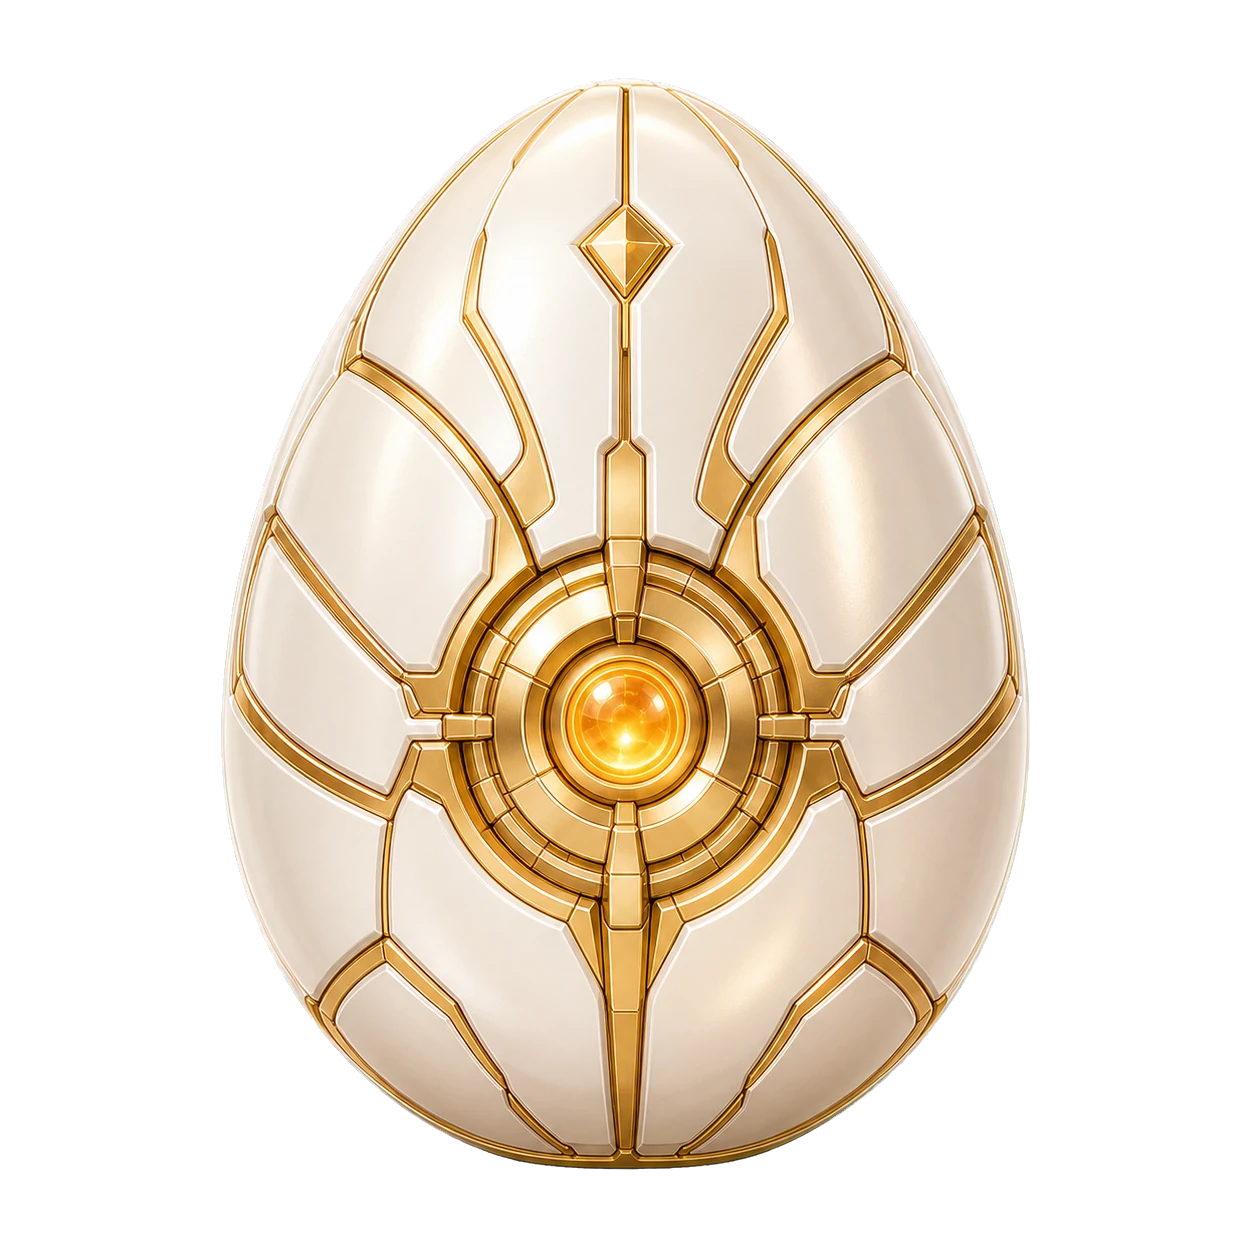
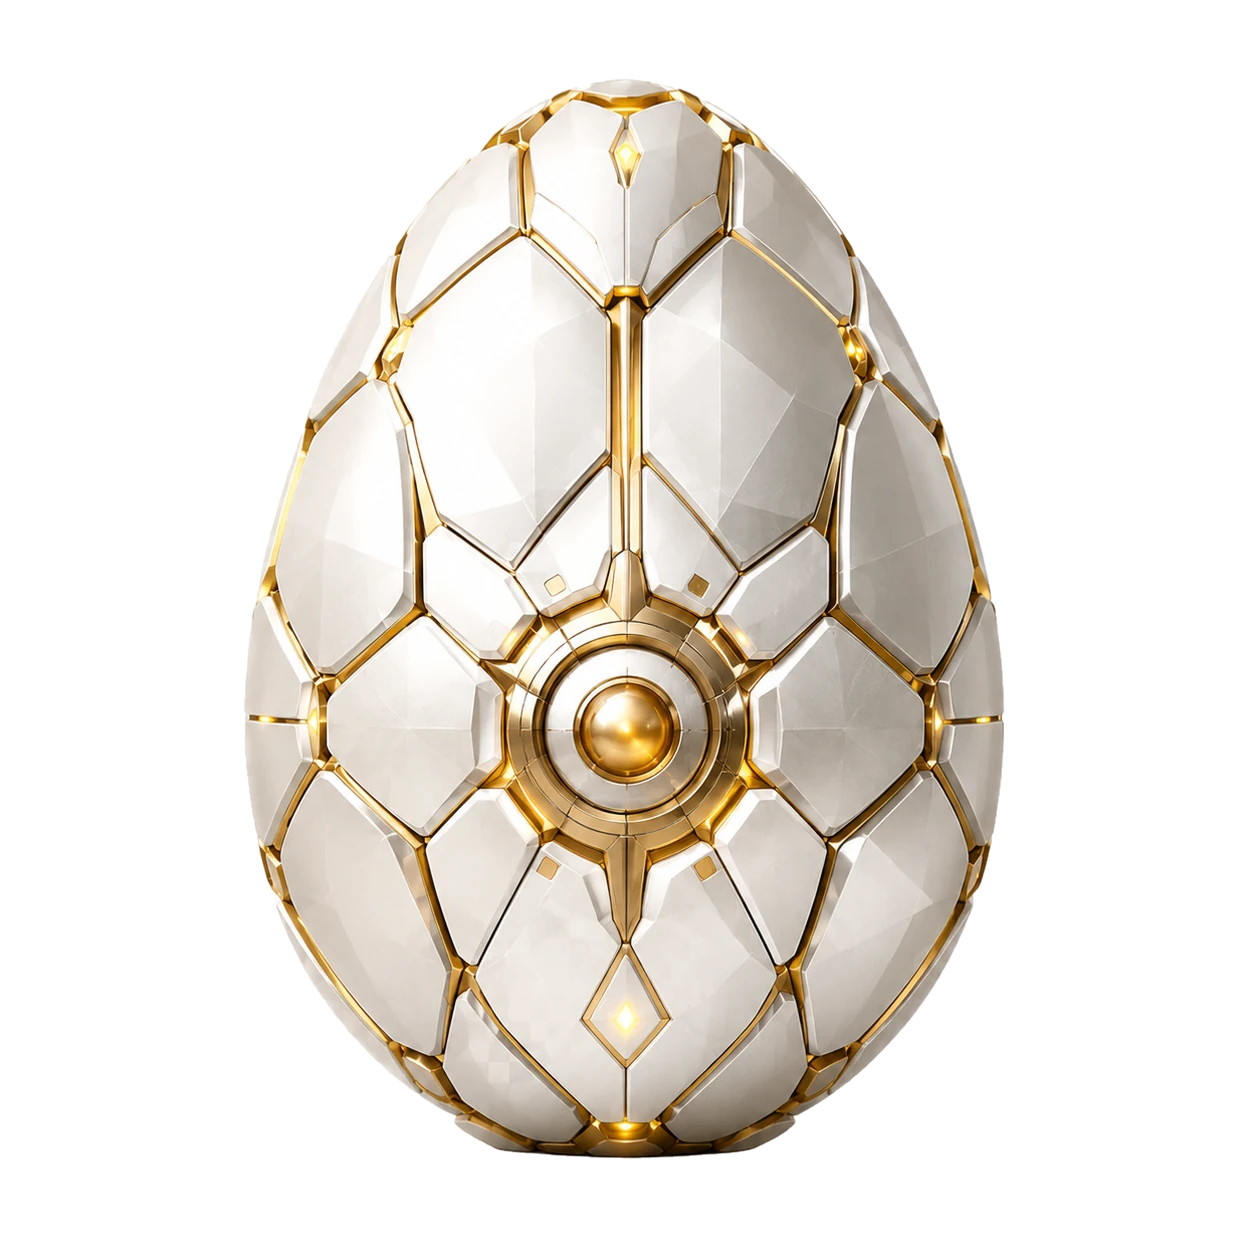
feat: 更新三档盲盒图片

diff --git a/design-qa.md b/design-qa.md
@@ -638,3 +638,28 @@ final result: passed
 - 纵向两行权益、两枚透明 PNG、线上资源字节和真实 Telegram iPhone 布局均已验收通过；旧横向双图标与叠加牌匾方案只保留为历史记录。
 
 final result: passed
+
+---
+
+# 三档盲盒用户指定素材替换
+
+## 验收对象
+
+- 页面：开盒页主盲盒与三档选择缩略图。
+- 用户裁决：从左到右固定为白金蛋＝普通盲盒、黑橙蛋＝稀有盲盒、金色花纹蛋＝传说盲盒；第三张源图先移除绿色背景再接入。
+- 改动范围：只替换 `normal.webp`、`rare.webp`、`legendary.webp` 并刷新资产哈希锁；未修改组件、CSS、API、后端、价格、奖池或数据库。
+
+## 唯一实现结果
+
+- 普通与稀有盲盒直接使用用户提供的透明 PNG 源图编码为项目现用透明 WebP。
+- 传说盲盒对用户提供的原始 RGB PNG 执行色键抠图，保留完整蛋体、金色椭圆框、花叶、水晶装饰、环形装饰和底座；最终透明图四角 Alpha 均为 `0`，透明包围盒为 `(19, 37)–(1106, 1383)`，未检测到可见绿色主导像素。
+- 主图与缩略图继续共用 `GachaView` 中同一组档次资源路径，因此三张资源替换后两处同步生效。
[1 lines of base64/hex data omitted]
+
+## 验证证据
+
+- `pnpm --filter @pokepets/web build` 通过。
+- Web 构建刷新发布目录后，`pnpm assets:check:development` 通过：425 个开发发布资产全部路径有效、格式有效、哈希锁定且已进入构建。
+- 未执行本地功能测试，未触发开盒、领取、支付或资产变更。
+
+final result: passed
